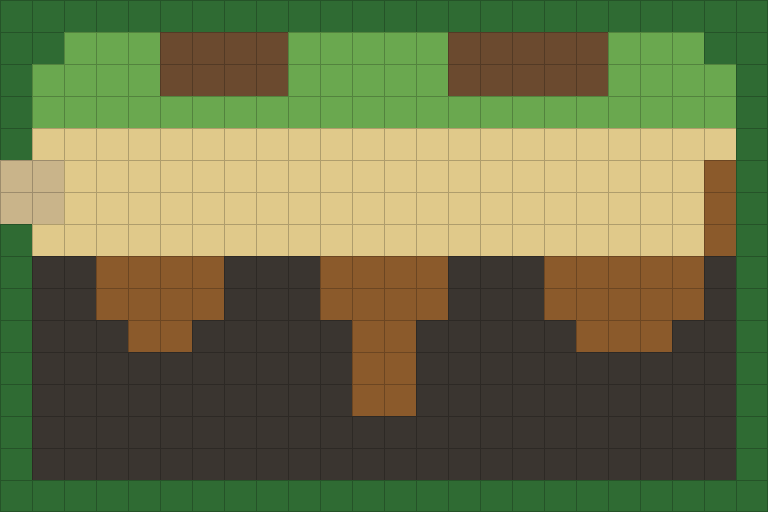
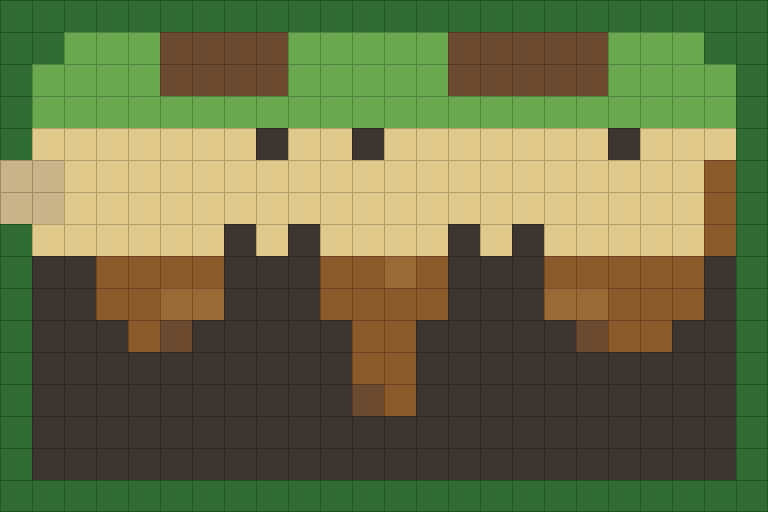
Move the yard's bench a row up so its shadow falls on the yard, and regenerate the map packs
Claude-Session: https://claude.ai/code/session_01H8JDTPYztrZvUL5HBCK6eR

diff --git a/src/content/regions/saltstepEmberwatch/maps.ts b/src/content/regions/saltstepEmberwatch/maps.ts
@@ -326,7 +326,7 @@ export const EMBERWATCH_POWER_YARD: MapDef = {
    * walk through it). The rain cistern (`W`) has overflowed across the yard: the standing water
    * (`~`) beside the line is SF-2.1's wet ground. The dead copper spur hangs at the back (east),
    * on its own poles. The gate west (rows 5-6) goes back to the parade ground.
-   * The workshop bench (`d`) stands in the south-west corner.
+   * The workshop bench (`d`) stands by the south-west corner.
    *
    * PLACEHOLDER RULE: a live line that shocks the wet ground beside it needs engine work (the
    * script's build list: "wet ground beside a live line as a surface"). Until then the puddles
@@ -342,8 +342,8 @@ export const EMBERWATCH_POWER_YARD: MapDef = {
     '=................F#',
     '#........~~~.....F#',
     '#.......~~~~~....F#',
-    '#................##',
-    '#d................#',
+    '#d...............##',
+    '#.................#',
     '###################',
   ],
   partySpawns: COMBAT_PARTY_SPAWNS,

diff --git a/src/content/scenes/rg02.topdown.ts b/src/content/scenes/rg02.topdown.ts
@@ -318,8 +318,8 @@ export const EMBERWATCH_POWER_YARD_OBJECTS: readonly TopDownObject[] = [
   ),
   // The overflowing rain cistern (`W`), and the dead copper spur on its own poles at the back (east).
   piece('cistern', 'cistern', 'prop', block(15, 17, 1, 2), true),
-  // The public workshop bench in the south-west corner.
-  piece('bench', 'workshop_bench', 'prop', [[1, 10]], true),
+  // The public workshop bench by the south-west corner, a row up so its shadow falls on the yard.
+  piece('bench', 'workshop_bench', 'prop', [[1, 9]], true),
   piece('spur_north', 'copper_spur', 'prop', block(17, 17, 4, 6), true),
   // the south spur stands back from the yard's corner, so its shadow falls on the yard and not into the rim
   piece('spur_south', 'copper_spur', 'prop', block(17, 17, 7, 8), true, { x: -8, base: -16 }),

diff --git a/docs/art/prompts/maps/emberwatch_parade.md b/docs/art/prompts/maps/emberwatch_parade.md
@@ -8,7 +8,7 @@
 
 **Layout** `emberwatch_parade-layout.png` beside this file: the tile grid as flat colour blocks at 32 px a tile, with the grid drawn. Hand it to the generator as the composition reference (image-to-image or a structure control) at a strength that keeps every edge where it is; upscale it to the delivery size first so the generator does not invent a border.
 
-**Palette** hue anchors from the game's own ground (`src/render/palettes.ts`): grass `#6f9e4c`, wall `#3a352f`, sand `#c7a87d`, road `#b39064`, wood `#6b4f33`, water deep `#1f4a5e`. The painting replaces those tones outright, so lighter and more saturated is fine; stay in the same families so the effects and the parchment HUD still read over it.
+**Palette** hue anchors from the game's own ground (`src/render/palettes.ts`): grass `#6f9e4c`, wall `#3a352f`, sand `#c7a87d`, road `#b39064`, water deep `#1f4a5e`, wood `#6b4f33`. The painting replaces those tones outright, so lighter and more saturated is fine; stay in the same families so the effects and the parchment HUD still read over it.
 
 ## Where
 
@@ -19,11 +19,11 @@ Emberwatch, an old military outpost across the bay, reopened for civilians.
 24 columns by 16 rows, counted from 0 at the top-left corner. The painting is the ground and what stands on it, nothing else: the game draws its own grid, movement contours, units, props and effects over it, so every edge in the painting that matters to the rules sits exactly on a tile edge.
 
 - Road (6 tiles): a 3×2 block at columns 21–23, rows 7–8 (middle right).
-- Trees (74 tiles): 74 tiles (the centre), rows 0 and 15: columns 0–23; rows 1–6 and 9–14: columns 0 and 23; rows 7–8: column 0.
-- Stone walls (28 tiles): a 22×1 block at columns 1–22, row 1 (top centre); a 6×1 block at columns 1–6, row 14 (bottom left).
+- Trees (79 tiles): 79 tiles (the centre), rows 0 and 15: columns 0–23; rows 1–3, 5, 9 and 11–14: columns 0 and 23; row 4: columns 0–1 and 22–23; row 6: columns 0–1 and 23; rows 7–8: column 0; row 10: columns 0 and 21–23.
+- Stone walls (29 tiles): a 22×1 block at columns 1–22, row 1 (top centre); 7 tiles (bottom left), row 12: column 1; row 13: columns 1–2; row 14: columns 1–4.
 - Sand (126 tiles): a 18×7 block at columns 3–20, rows 3–9 (the centre).
-- Plank floors (12 tiles): a 6×2 block at columns 1–6, rows 12–13 (bottom left).
-- Open ground everywhere else: grass (138 tiles).
+- Plank floors (11 tiles): 11 tiles (bottom left), row 12: columns 2–5; row 13: columns 3–7; row 14: columns 5–6.
+- Open ground everywhere else: grass (133 tiles).
 - The party enters from the left, standing at (3, 12), (4, 12), (3, 13), (4, 13), (5, 12), (5, 13); enemies come from the right. Paint nothing there that would read as an object to walk round.
 
 The rows as the rules read them:
@@ -33,21 +33,21 @@ TTTTTTTTTTTTTTTTTTTTTTTT
 T######################T
 T,,,,,,,,,,,,,,,,,,,,,,T
 T,,::::::::::::::::::,,T
+Tu,::::::::::::::::::,uT
 T,,::::::::::::::::::,,T
-T,,::::::::::::::::::,,T
-T,,::::::::::::::::::,,T
+Tu,::::::::::::::::::,,T
 T,,::::::::::::::::::===
 T,,::::::::::::::::::===
 T,,::::::::::::::::::,,T
+T,,,,,,,,,,,,,,,,,,,,uuT
 T,,,,,,,,,,,,,,,,,,,,,,T
-T,,,,,,,,,,,,,,,,,,,,,,T
-Twwwwww,,,,,,,,,,,,,,,,T
-Twwwwww,,,,,,,,,,,,,,,,T
-TWWWWWW,,,,,,,,,,,,,,,,T
+TWwwww,,,,,,,,,,,,,,,,,T
+TWWwwwww,,,,,,,,,,,,,,,T
+TWWWWww,,,,,,,,,,,,,,,,T
 TTTTTTTTTTTTTTTTTTTTTTTT
 ```
 
-Legend: `T` trees; `#` stone walls; `,` grass; `:` sand; `=` road; `w` plank floors; `W` stone walls.
+Legend: `T` trees; `#` stone walls; `,` grass; `:` sand; `u` trees; `=` road; `W` stone walls; `w` plank floors.
 
 ## Prompt
 

diff --git a/docs/art/prompts/maps/saltstep_market.md b/docs/art/prompts/maps/saltstep_market.md
@@ -20,10 +20,11 @@ Saltstep, a market town built out over a grey bay.
 
 - Road (4 tiles): a 2×2 block at columns 0–1, rows 5–6 (middle left).
 - Trees (76 tiles): 76 tiles (the centre), rows 0 and 15: columns 0–23; row 1: columns 0–1 and 22–23; rows 2–4 and 7–14: columns 0 and 23; rows 5–6: column 23.
-- Timber walls (18 tiles): a 5×2 block at columns 14–18, rows 1–2 (top right); a 4×2 block at columns 5–8, rows 1–2 (top left).
-- Stone walls (117 tiles): 117 tiles (bottom centre), rows 8–9: columns 1–2, 7–9, 14–16 and 22; row 10: columns 1–3, 6–10, 13–17 and 21–22; rows 11–12: columns 1–10 and 13–22; rows 13–14: columns 1–22.
-- Sand (83 tiles): 83 tiles (the centre), row 4: columns 1–22; rows 5–6: columns 2–21; row 7: columns 1–21.
-- Plank floors (40 tiles): 14 tiles (the centre), rows 8–9: columns 10–13; rows 10–12: columns 11–12; 13 tiles (middle right), rows 8–9: columns 17–21; row 10: columns 18–20; 10 tiles (middle left), rows 8–9: columns 3–6; row 10: columns 4–5; a 1×3 block at column 22, rows 5–7 (middle right).
+- Timber walls (21 tiles): a 5×2 block at columns 14–18, rows 1–2 (top right); a 4×2 block at columns 5–8, rows 1–2 (top left); one tile at column 5, row 10 (middle left); one tile at column 18, row 10 (middle right); one tile at column 11, row 12 (bottom centre).
+- Barred timber gates (5 tiles): a 2×1 block at columns 5–6, row 9 (middle left); a 2×1 block at columns 17–18, row 9 (middle right); one tile at column 12, row 8 (the centre).
+- Stone walls (124 tiles): 121 tiles (bottom centre), row 7: columns 7, 9, 14 and 16; rows 8–9: columns 1–2, 7–9, 14–16 and 22; row 10: columns 1–3, 6–10, 13–17 and 21–22; rows 11–12: columns 1–10 and 13–22; rows 13–14: columns 1–22; one tile at column 8, row 4 (top centre); one tile at column 11, row 4 (top centre); one tile at column 19, row 4 (top right).
+- Sand (76 tiles): 76 tiles (the centre), row 4: columns 1–7, 9–10, 12–18 and 20–22; rows 5–6: columns 2–21; row 7: columns 1–6, 8, 10–13, 15 and 17–21.
+- Plank floors (32 tiles): 12 tiles (the centre), row 8: columns 10–11 and 13; row 9: columns 10–13; rows 10–11: columns 11–12; row 12: column 12; 10 tiles (middle right), row 8: columns 17–21; row 9: columns 19–21; row 10: columns 19–20; 7 tiles (middle left), row 8: columns 3–6; row 9: columns 3–4; row 10: column 4; a 1×3 block at column 22, rows 5–7 (middle right).
 - Open ground everywhere else: grass (46 tiles).
 - The party enters from the left, standing at (1, 5), (1, 6), (2, 5), (2, 6), (1, 4), (2, 4); enemies come from the right. Paint nothing there that would read as an object to walk round.
 
@@ -34,21 +35,21 @@ TTTTTTTTTTTTTTTTTTTTTTTT
 TT,,,BBBB,,,,,BBBBB,,,TT
 T,,,,BBBB,,,,,BBBBB,,,,T
 T,,,,,,,,,,,,,,,,,,,,,,T
-T::::::::::::::::::::::T
+T:::::::n::n:::::::n:::T
 ==::::::::::::::::::::wT
 ==::::::::::::::::::::wT
-T:::::::::::::::::::::wT
-TWWwwwwWWWwwwwWWWwwwwwWT
-TWWwwwwWWWwwwwWWWwwwwwWT
-TWWWwwWWWWWwwWWWWWwwwWWT
+T::::::n:n::::n:n:::::wT
+TWWwwwwWWWwwGwWWWwwwwwWT
+TWWwwGGWWWwwwwWWWGGwwwWT
+TWWWwFWWWWWwwWWWWWFwwWWT
 TWWWWWWWWWWwwWWWWWWWWWWT
-TWWWWWWWWWWwwWWWWWWWWWWT
+TWWWWWWWWWWFwWWWWWWWWWWT
 TWWWWWWWWWWWWWWWWWWWWWWT
 TWWWWWWWWWWWWWWWWWWWWWWT
 TTTTTTTTTTTTTTTTTTTTTTTT
 ```
 
-Legend: `T` trees; `,` grass; `B` timber walls; `:` sand; `=` road; `w` plank floors; `W` stone walls.
+Legend: `T` trees; `,` grass; `B` timber walls; `:` sand; `n` stone walls; `=` road; `w` plank floors; `W` stone walls; `G` barred timber gates; `F` timber walls.
 
 ## Prompt
 

diff --git a/docs/art/prompts/maps/emberwatch_power_yard.md b/docs/art/prompts/maps/emberwatch_power_yard.md
@@ -21,8 +21,8 @@ The power yard at Emberwatch, where the live line comes in.
 - Road (2 tiles): a 1×2 block at column 0, rows 5–6 (middle left).
 - Still water (34 tiles): 24 tiles (the centre), row 2: columns 5–10; row 3: columns 4–12; row 4: columns 5–11; row 5: columns 10–11; 8 tiles (the centre), row 7: columns 9–11; row 8: columns 8–12; a 2×1 block at columns 16–17, row 3 (top right).
 - Timber walls (19 tiles): a 14×1 block at columns 1–14, row 1 (top centre); a 1×5 block at column 17, rows 4–8 (middle right).
-- Stone walls (63 tiles): 63 tiles (the centre), rows 0 and 11: columns 0–18; rows 1–2: columns 0 and 15–18; rows 3–4, 7–8 and 10: columns 0 and 18; rows 5–6: column 18; row 9: columns 0 and 17–18.
-- Open ground everywhere else: bare earth (110 tiles).
+- Stone walls (64 tiles): 64 tiles (the centre), rows 0 and 11: columns 0–18; rows 1–2: columns 0 and 15–18; rows 3–4, 7–8 and 10: columns 0 and 18; rows 5–6: column 18; row 9: columns 0–1 and 17–18.
+- Open ground everywhere else: bare earth (109 tiles).
 - The party enters from the left, standing at (1, 3), (3, 4), (1, 5), (3, 6), (1, 7), (3, 8); enemies come from the right. Paint nothing there that would read as an object to walk round.
 
 The rows as the rules read them:
@@ -37,12 +37,12 @@ The rows as the rules read them:
 =................F#
 #........~~~.....F#
 #.......~~~~~....F#
-#................##
+#d...............##
 #.................#
 ###################
 ```
 
-Legend: `#` stone walls; `F` timber walls; `W` stone walls; `.` bare earth; `~` still water; `=` road.
+Legend: `#` stone walls; `F` timber walls; `W` stone walls; `.` bare earth; `~` still water; `=` road; `d` stone walls.
 
 ## Prompt
 
